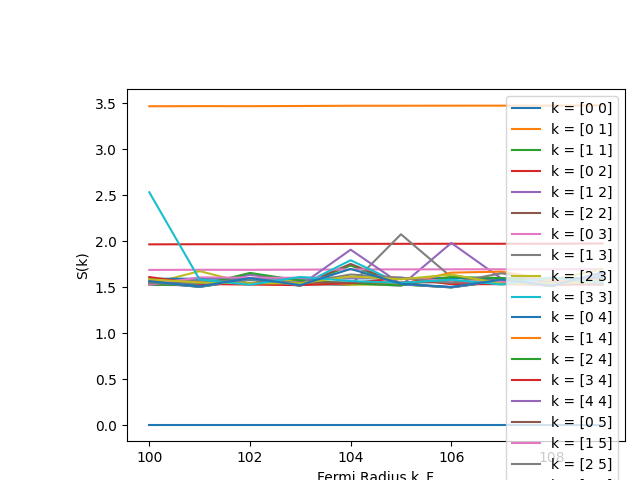
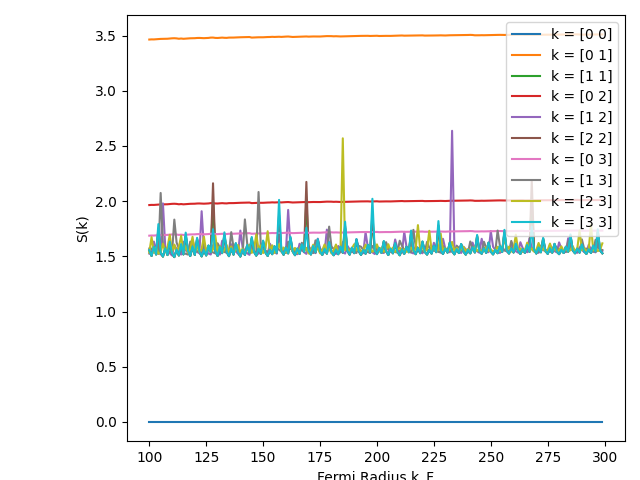
modified:   combined_plot.png 	modified:   main.py

diff --git a/main.py b/main.py
@@ -7,8 +7,8 @@ import matplotlib.pyplot as plt
 #####################
 # Simulation Params #
 #####################
-N = 110 # Fermi Radius ( \geq 100 )
-L = 6   # x lattice cutoff
+N = 300 # Fermi Radius ( \geq 100 )
+L = 4   # x lattice cutoff
 #####################
 
 # Create unique filename based on k, N, and current time
